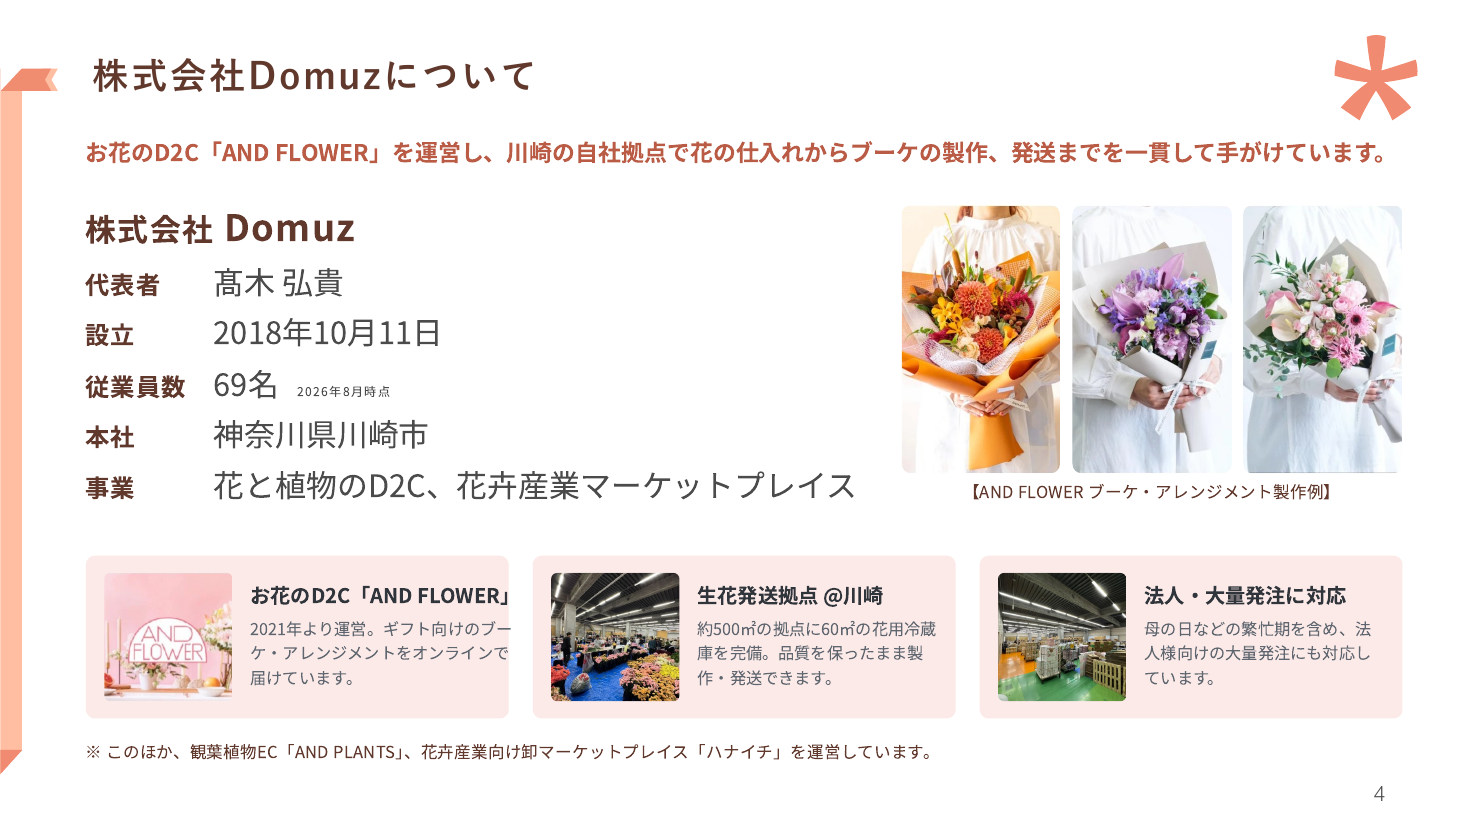
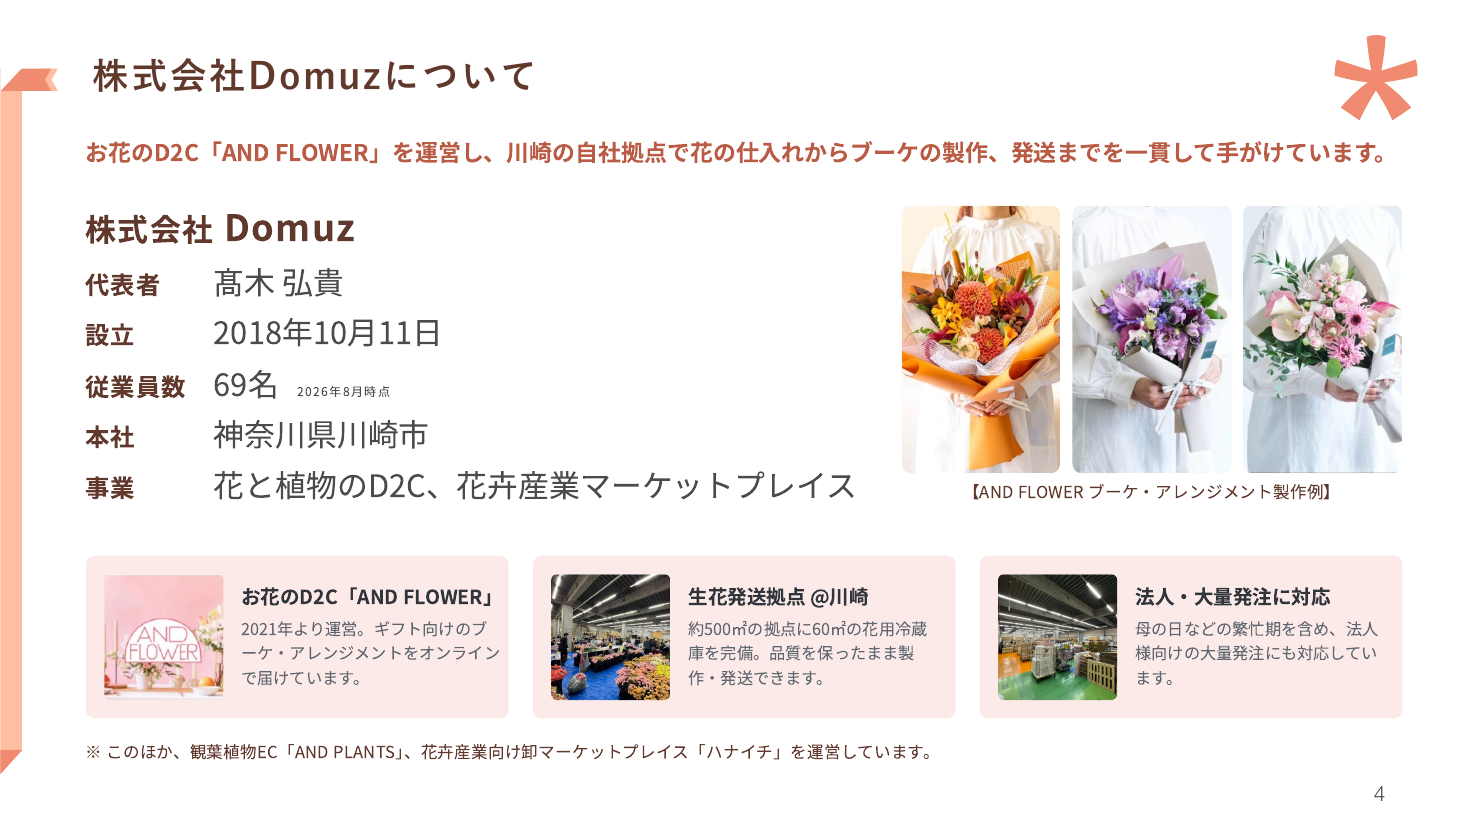
Page 4: keep first card title inside the card
Claude-Session: https://claude.ai/code/session_011Qx6E4s9ay4y8XAszErrTF

Changed region(s): [[0.3681, 0.697, 0.6442, 0.8485], [0.6748, 0.697, 0.9509, 0.8485], [0.0613, 0.697, 0.3374, 0.8485]]

diff --git a/tential-gfc-proposal/page4-src/page4.html b/tential-gfc-proposal/page4-src/page4.html
@@ -21,9 +21,9 @@ body{font-family:"NSJP",sans-serif;color:#30343B;position:relative;-webkit-print
 .caption{left:590pt;top:316pt;width:328pt;text-align:center;font-size:10.8pt;color:#60382C;letter-spacing:.02em;}
 .cards{left:56pt;top:364pt;width:862pt;display:flex;gap:16pt;}
 .card{flex:1 1 0;min-width:0;height:106pt;background:#FBEAE7;border-radius:6pt;display:flex;align-items:center;padding:0 12pt;box-sizing:border-box;gap:12pt;}
-.card .img{width:84pt;height:84pt;border-radius:4pt;overflow:hidden;flex:none;}
+.card .img{width:78pt;height:82pt;border-radius:4pt;overflow:hidden;flex:none;}
 .card .img img{width:100%;height:100%;object-fit:cover;display:block;}
-.card .t{white-space:nowrap;font-size:13.2pt;font-weight:700;color:#30343B;line-height:1.3;margin-bottom:5pt;}
+.card .t{white-space:nowrap;font-size:12.8pt;font-weight:700;color:#30343B;line-height:1.3;margin-bottom:5pt;}
 .card .s{font-size:10.6pt;color:#5F6670;line-height:1.5;}
 .foot{left:56pt;top:486pt;width:862pt;font-size:10.8pt;color:#60382C;letter-spacing:.02em;}
 </style></head><body>
